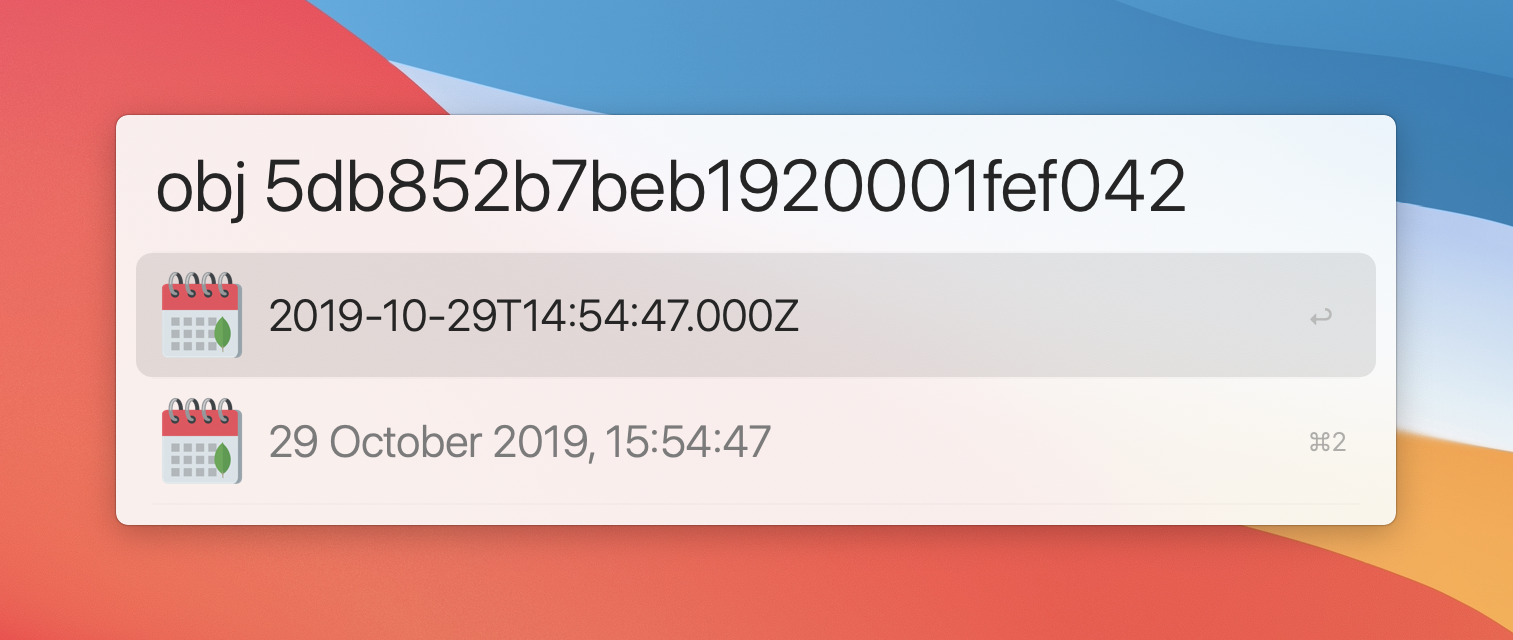
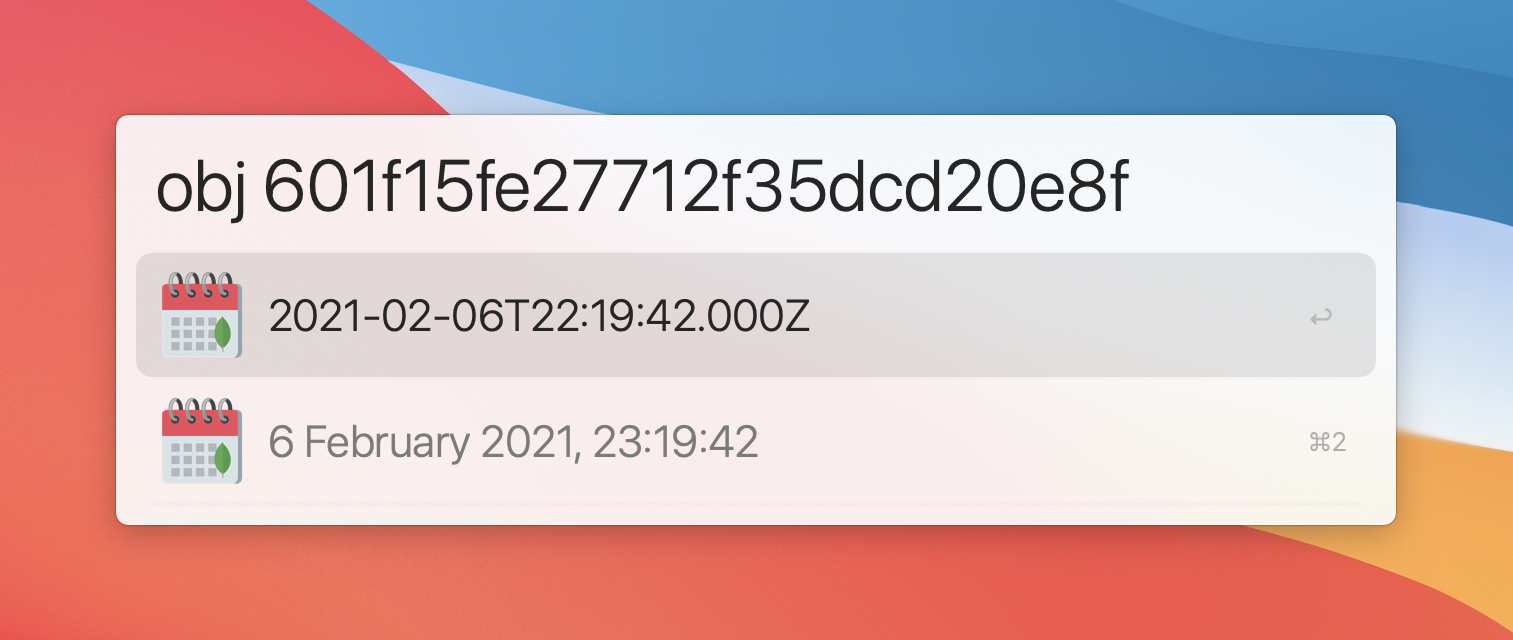
Update readme

Changed region(s): [[0.1553, 0.25, 0.8077, 0.3438], [0.1553, 0.6562, 0.5281, 0.7188], [0.2174, 0.4688, 0.5281, 0.5312]]

diff --git a/README.md b/README.md
@@ -14,4 +14,8 @@ An [Alfred](https://www.alfredapp.com) workflow that converts MongoDB ObjectIds 
 obj [ObjectId]
 ```
 
+The workflow will return two results:
+- ISO 8601 timestamp in UTC time
+- timestamp in your local time notation and timezone 
+
 Press `cmd`+`return` (⌘↵) to copy the timestamp in the selected format to your clipboard.
